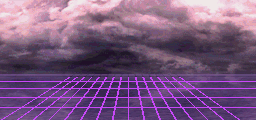
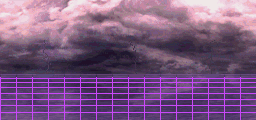
Heart backdrop: even parallel tile seams across the whole floor; three distant lightning bolts that strike the floor with a glare
Claude-Session: https://claude.ai/code/session_01DQWC7xTsxVudAbpPbiVFX3

diff --git a/tools/dark_story/build_heart_floor.py b/tools/dark_story/build_heart_floor.py
@@ -39,7 +39,7 @@ grout = np.zeros((H, W), bool)   # the tile seams, which glow in the game
 noise = periodic_noise(floor_rows, 3, [3, 5, 8, 13, 21, 34])
 base = np.array([40.0, 27.0, 60.0])
 xs_all = np.arange(W)
-VANISH_Y = HORIZON - 34
+VANISH_Y = HORIZON - 120   # a far vanishing point: seams reach both edges
 for r in range(floor_rows):
     d = r + 1
     depth = r / floor_rows                    # 0 at the horizon, 1 at the bottom
@@ -55,13 +55,13 @@ for r in range(floor_rows):
     for i in range(16):
         x_bottom = i * (W / 16)
         t = (HORIZON + r - VANISH_Y) / float(H - VANISH_Y)
-        x_line = (W / 2) + (x_bottom - W / 2) * t
+        x_line = x_bottom   # parallel seams: they wrap and fill the whole width
         dx = np.abs(((xs_all - x_line + W / 2) % W) - W / 2)
         row = row - (dx < 0.9)[:, None] * np.array([26.0, 18.0, 34.0])
         grout[HORIZON + r] |= dx < 0.9
     # horizontal grout rows, spaced wider toward the viewer
-    for k in range(1, 6):
-        yk = int(HORIZON + floor_rows * (k / 6.0) ** 1.7)
+    for k in range(1, 9):
+        yk = int(HORIZON + floor_rows * (k / 9.0) ** 1.5)
         if yk == HORIZON + r:
             row = row - np.array([22.0, 15.0, 30.0])
             grout[HORIZON + r, :] = True
@@ -71,25 +71,60 @@ for r in range(floor_rows):
         row = row * (1 - 0.55 * m) + np.array([120.0, 88.0, 150.0]) * 0.55 * m
     out[HORIZON + r] = row
 
-# Glowing fissures in the glass. They are painted after the floor is quantised,
-# with palette entries 120-127 reserved for them: the battle code
-# (background.c, Heart_StepBackdropGlow) pulses these eight colours.
+# Glowing tile seams and three distant lightning bolts. They are painted after
+# the floor is quantised, with palette entries reserved for them; the battle
+# code (background.c, Heart_StepBackdropGlow) animates them:
+#   120-123  the tile seams, four phases from the horizon outward
+#   112-117  three bolts: entry 112+2b is bolt b, 113+2b the glare where it
+#            strikes the floor. Their colours here are the "off" colours (the
+#            cloud and floor they sit on); the game lights them during a flash.
+NQ = 112
+CORE = 120
 img = Image.fromarray(np.clip(out, 0, 255).astype(np.uint8))
-q = img.quantize(colors=120, method=Image.Quantize.MEDIANCUT, dither=Image.Dither.NONE)
+q = img.quantize(colors=NQ, method=Image.Quantize.MEDIANCUT, dither=Image.Dither.NONE)
 idx = np.array(q)
-CORE = 120    # 120-123: the tile seams, four phases from the horizon outward
-HALO = 124    # 124-127: unused (kept so the glow code stays simple)
+pal = list(q.getpalette()[:NQ * 3])
+pal += [0] * (384 - len(pal))
 for y in range(HORIZON + 3, H):
     ph = ((y - HORIZON) // 4) % 4
     xs = np.nonzero(grout[y])[0]
     idx[y, xs] = CORE + ph
-q = Image.fromarray(idx.astype(np.uint8), "P")
-pal = list(img.quantize(colors=120, method=Image.Quantize.MEDIANCUT, dither=Image.Dither.NONE).getpalette()[:360])
-pal += [0] * (384 - len(pal))
-# placeholder glow colours; the game animates them
 for k in range(4):
     pal[(CORE + k) * 3:(CORE + k) * 3 + 3] = [200, 72, 248]
-    pal[(HALO + k) * 3:(HALO + k) * 3 + 3] = [96, 40, 120]
+rng2 = np.random.default_rng(5)
+for b, bx in enumerate([44, 130, 214]):
+    pts = []
+    x, y = bx, 40
+    while y < HORIZON:
+        pts.append((x % W, y))
+        y += 1
+        if rng2.random() < 0.55:
+            x += int(rng2.integers(-2, 3))
+    bolt = list(pts)
+    # a short fork partway down
+    fx, fy = pts[len(pts) // 2]
+    for n in range(8):
+        fx += 1 if b % 2 else -1
+        fy += 1 if n % 2 else 0
+        if fy < HORIZON:
+            bolt.append((fx % W, fy))
+    end_x = pts[-1][0]
+    # off colour: the sky the bolt hides in
+    under = np.array([out[y, x] for x, y in bolt])
+    pal[(112 + 2 * b) * 3:(112 + 2 * b) * 3 + 3] = [int(v * 0.9) for v in under.mean(axis=0)]
+    for x, y in bolt:
+        idx[y, x] = 112 + 2 * b
+    # the glare on the floor where it lands: a flat ellipse
+    glare = []
+    for gy in range(HORIZON, HORIZON + 4):
+        half = 9 - 2 * (gy - HORIZON)
+        for gx in range(-half, half + 1):
+            glare.append(((end_x + gx) % W, gy))
+    gunder = np.array([out[y, x] for x, y in glare])
+    pal[(113 + 2 * b) * 3:(113 + 2 * b) * 3 + 3] = [int(v) for v in gunder.mean(axis=0)]
+    for x, y in glare:
+        idx[y, x] = 113 + 2 * b
+q = Image.fromarray(idx.astype(np.uint8), "P")
 # the graphics encoder only takes exact RGB555 colours (multiples of 8)
 pal = [min(248, int(round(v / 8.0)) * 8) for v in pal]
 q.putpalette(pal)

diff --git a/games/tbs/src/battle/battle/background.c b/games/tbs/src/battle/battle/background.c
@@ -160,7 +160,11 @@ void BattleBackground_Init(void) {
 /// Heart's backdrop: the palette entries the floor's tile seams use
 /// (tools/dark_story/build_heart_floor.py reserves 120 to 127).
 #define HEART_CRACK_CORE 120
-#define HEART_CRACK_HALO 124
+/// The distant bolts: entry HEART_BOLT_FIRST + 2 * bolt is the bolt itself and
+/// the next one the glare where it strikes the floor. Sky and floor are the
+/// entries below it.
+#define HEART_BOLT_FIRST 112
+#define HEART_BOLT_COUNT 3
 /// Lightning: every HEART_LIGHTNING_PERIOD frames there is one strike, at a
 /// scrambled moment inside the period. It reads gVBlankCount, so it needs no
 /// state of its own (IWRAM is full).
@@ -200,8 +204,6 @@ void Heart_StepBackdropGlow(void) {
 
     BATTLE_BG_PALETTE[HEART_CRACK_CORE + k] =
         Heart_GlowColor(24, 9, 31, wave, scale);
-    BATTLE_BG_PALETTE[HEART_CRACK_HALO + k] =
-        Heart_GlowColor(14, 5, 12, wave, scale);
   }
   if (scale != Q16_ONE)
     return;
@@ -225,11 +227,13 @@ void Heart_StepBackdropGlow(void) {
       return;
     }
     gain = strike[index];
-    for (i = 0; i < 120; i++) {
+    // the sky and floor brighten by half the strike, so the bolt stays the
+    // brightest thing on screen
+    for (i = 0; i < HEART_BOLT_FIRST; i++) {
       u32 pixel = source[i];
-      s32 red = (pixel & 31) + gain;
-      s32 green = ((pixel >> 5) & 31) + gain;
-      s32 blue = ((pixel >> 10) & 31) + gain + (gain >> 1);
+      s32 red = (pixel & 31) + gain / 2;
+      s32 green = ((pixel >> 5) & 31) + gain / 2;
+      s32 blue = ((pixel >> 10) & 31) + gain / 2 + (gain >> 2);
 
       if (red > 31)
         red = 31;
@@ -238,6 +242,21 @@ void Heart_StepBackdropGlow(void) {
       if (blue > 31)
         blue = 31;
       destination[i] = (blue << 10) | (green << 5) | red;
+    }
+    // this strike's bolt lights up to near white, and the floor glares
+    // where it lands (the first is the bolt, the second the glare)
+    for (i = 0; i < 2; i++) {
+      s32 entry = HEART_BOLT_FIRST + 2 * (s32)(epoch % HEART_BOLT_COUNT) + i;
+      u32 pixel = source[entry];
+      s32 reach = i == 0 ? gain : gain / 2;
+      s32 red = (pixel & 31);
+      s32 green = ((pixel >> 5) & 31);
+      s32 blue = ((pixel >> 10) & 31);
+
+      red += (31 - red) * reach / 28;
+      green += (30 - green) * reach / 28;
+      blue += (31 - blue) * reach / 28;
+      destination[entry] = (blue << 10) | (green << 5) | red;
     }
   }
 }
